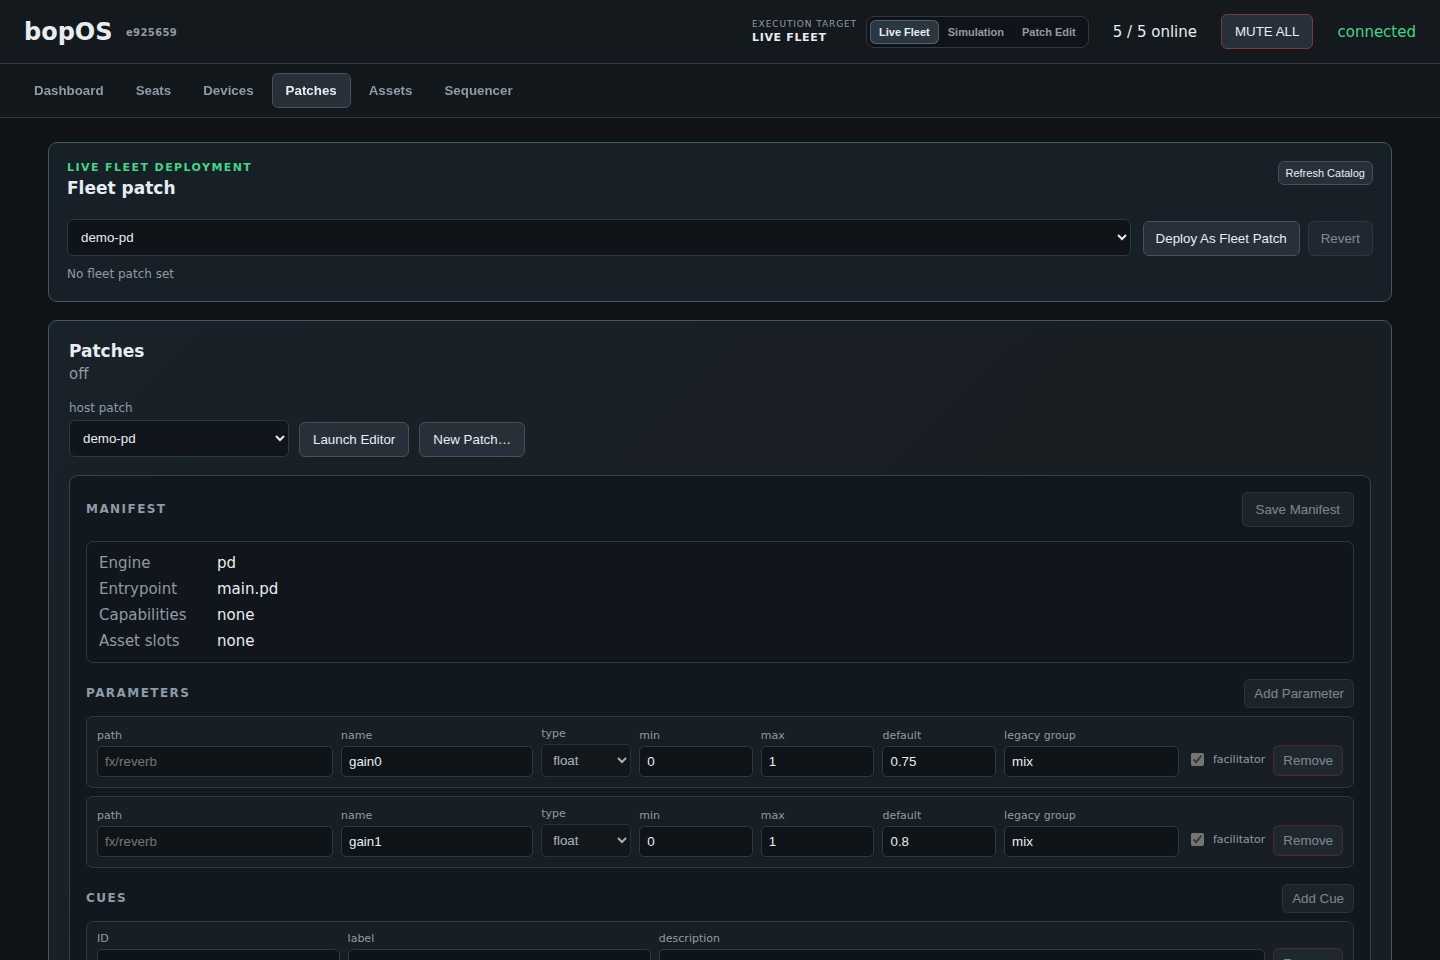
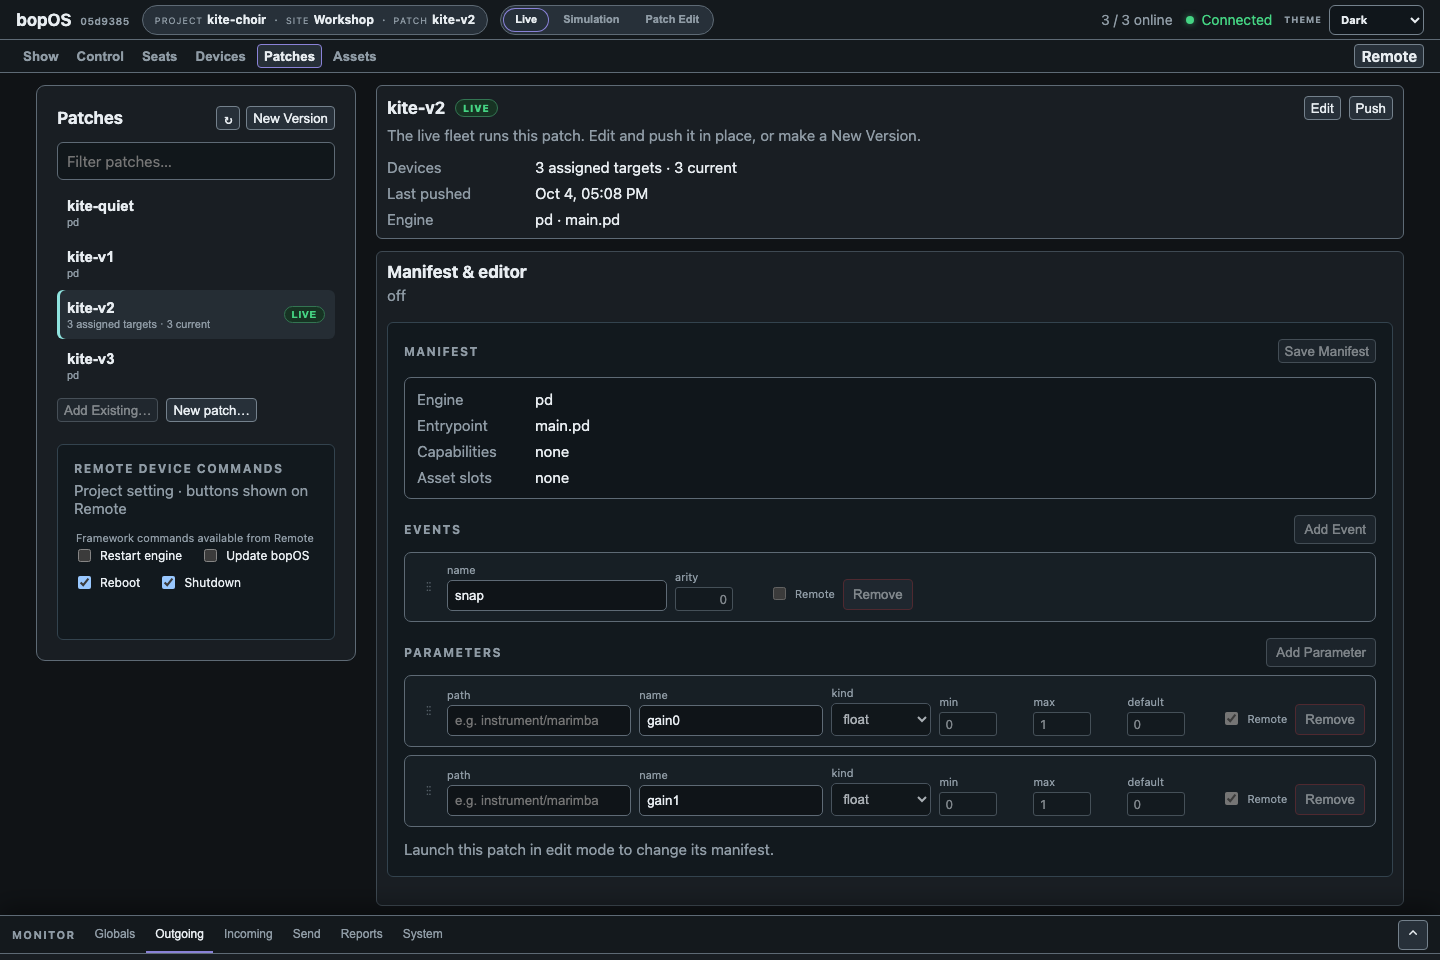
Keep the fleet on the project's patches; Remote commands save on click
Lead review of 66/6. Set Live now refuses a patch the project doesn't list
(proposal sec 3: add a folder to the project first), so the journeys start
from Add Existing instead of seeding the list. Remote device commands follow
mockup 1: captioned "Project setting · buttons shown on Remote" and saved as
each box is ticked, with no Save button. docs/images/tab-patches.png shows
the new tab, dark at 1440x960 like the other docs images.

diff --git a/dashboard/static/css/style.css b/dashboard/static/css/style.css
@@ -28,7 +28,7 @@ button:disabled{opacity:.5;cursor:not-allowed}
 #refresh-distribution{font-size:11px;padding:5px 7px}.patch-target-note{margin-top:12px}
 .patch-badge{flex:none;display:inline-block;max-width:112px;padding:3px 6px;border:1px solid #56616a;border-radius:999px;color:var(--dim);font-size:10px;font-weight:700;line-height:1.2;text-align:center;white-space:normal}.patch-badge-current{border-color:#337552;color:var(--green);background:#173323}.patch-badge-switching{border-color:#9c722b;color:#ffd17a;background:#382a13}.patch-badge-failed,.patch-badge-timeout,.patch-badge-missing,.patch-badge-mismatch,.patch-badge-stale,.patch-badge-stale_unverified{border-color:#9b3c46;color:#ff9da6;background:#3c171b}.device-row.patch-exception{box-shadow:inset 3px 0 0 var(--amber);background:var(--warning-bg)}.device-row.patch-exception:hover,.device-row.patch-exception.selected{background:var(--warning-bg-hover)}.patch-table-wrap{overflow-x:auto}.patch-table{width:100%;border-collapse:collapse;font-size:12px}.patch-table th,.patch-table td{padding:7px 9px;border-bottom:1px solid var(--line);text-align:left;vertical-align:top}.patch-table th{color:var(--dim);font-weight:600}.patch-table code,#patch-diagnostics dd code{font-size:11px;overflow-wrap:anywhere}.patch-remediation{margin-top:12px}
 #editor-panel{border-color:var(--group-line);background:var(--panel)}#editor-panel h2{margin:0 0 4px}.mode-actions{display:flex;align-items:center;gap:8px;flex-wrap:wrap}#editor-session-actions{justify-content:flex-end}#editor-engine-note{margin:9px 0 14px}#editor-params{max-width:760px;margin:12px 0;padding:var(--pad-panel);overflow-x:auto;border:1px solid var(--group-line);border-radius:var(--radius-panel);background:var(--panel)}#editor-params:empty{display:none}.editor-master-row{display:grid;grid-template-columns:minmax(0,1fr) 58px;align-items:center;gap:var(--gap);margin-bottom:var(--gap);padding-bottom:var(--gap);border-bottom:1px solid var(--group-line);color:var(--dim);font-size:12px}.editor-master-row input{grid-column:1/-1;width:100%;margin:0}.editor-master-row output{justify-self:end;font-variant-numeric:tabular-nums}@media(max-width:760px){#editor-panel .section-head{align-items:flex-start;flex-direction:column}#editor-session-actions{justify-content:flex-start}}
-#remote-command-editor{margin:18px 0;padding:16px;background:var(--subpanel);border-color:var(--subpanel-line)}#remote-command-editor .section-head h3,#remote-command-editor .section-head p{margin:0}#remote-command-editor .section-head p{margin-top:5px}#remote-command-options{display:flex;align-items:center;gap:8px 18px;flex-wrap:wrap;margin:14px 0 10px;padding:0;border:0}#remote-command-options legend{width:100%;margin-bottom:2px;color:var(--dim);font-size:11px}#remote-command-options label{display:flex;align-items:center;gap:6px;color:var(--text);font-size:12px}#remote-command-feedback{display:block;min-height:1.4em;line-height:1.4}@media(max-width:760px){#remote-command-editor .section-head{align-items:stretch;flex-direction:column}#remote-command-save{width:100%}}
+#remote-command-editor{margin:18px 0;padding:16px;background:var(--subpanel);border-color:var(--subpanel-line)}#remote-command-editor .section-head h3,#remote-command-editor .section-head p{margin:0}#remote-command-editor .section-head p{margin-top:5px}#remote-command-options{display:flex;align-items:center;gap:8px 18px;flex-wrap:wrap;margin:14px 0 10px;padding:0;border:0}#remote-command-options legend{width:100%;margin-bottom:2px;color:var(--dim);font-size:11px}#remote-command-options label{display:flex;align-items:center;gap:6px;color:var(--text);font-size:12px}#remote-command-feedback{display:block;min-height:1.4em;line-height:1.4}@media(max-width:760px){#remote-command-editor .section-head{align-items:stretch;flex-direction:column}}
 #manifest-editor{margin:18px 0;padding:16px;background:var(--subpanel);border-color:var(--subpanel-line)}#manifest-editor[hidden]{display:none}#manifest-editor .section-head h3,#manifest-editor .section-head p{margin:0}#manifest-editor .section-head p{margin-top:5px}#manifest-readonly{margin:14px 0;padding:12px;border:1px solid var(--line);border-radius:7px;background:var(--input)}#manifest-readonly dl{grid-template-columns:110px 1fr}.manifest-subhead{display:flex;align-items:center;justify-content:space-between;gap:12px;margin-top:16px}.manifest-subhead h3{margin:0}.manifest-subhead button{padding:6px 9px}/* Rows wrap rather than sitting on a fixed column count: a param row's child
    count changes with its kind and an event row's with its arity, so any fixed
    grid either overflows or leaves holes. Fields are sized by what they hold —

diff --git a/dashboard/static/js/dashboard.js b/dashboard/static/js/dashboard.js
@@ -28,8 +28,6 @@ let manifestFeedback = "";
 let manifestDrag = null;
 const REMOTE_COMMANDS = ["restart-engine", "updatebopos", "reboot", "shutdown"];
 let remoteCommandDraft = null;
-let remoteCommandBaseline = null;
-let remoteCommandDirty = false;
 let remoteCommandSaving = false;
 let remoteCommandFeedback = "";
 let pendingCreatedPatch = null;
@@ -930,19 +928,16 @@ function canonicalRemoteCommands(value) {
 function sameRemoteCommands(left,right) {
   return JSON.stringify(left)===JSON.stringify(right);
 }
+// Remote device commands save on click (mockup 1): each change sends the
+// whole selection; the checkboxes follow the project state again once it
+// reflects the last selection sent.
 function renderRemoteCommandEditor() {
   const current=canonicalRemoteCommands(installation.facilitator_commands);
-  if (remoteCommandDraft===null
-      || (!remoteCommandDirty && !sameRemoteCommands(current,remoteCommandBaseline))) {
-    remoteCommandDraft=[...current];
-    remoteCommandBaseline=[...current];
-  }
   if (remoteCommandSaving && sameRemoteCommands(current,remoteCommandDraft)) {
     remoteCommandSaving=false;
-    remoteCommandDirty=false;
-    remoteCommandBaseline=[...current];
     remoteCommandFeedback="Saved project setting.";
   }
+  if (!remoteCommandSaving) remoteCommandDraft=[...current];
   document.querySelectorAll("[data-remote-command]").forEach(input=>{
     input.checked=remoteCommandDraft.includes(input.dataset.remoteCommand);
     input.onchange=()=>{
@@ -950,19 +945,12 @@ function renderRemoteCommandEditor() {
         const option=document.querySelector(`[data-remote-command="${command}"]`);
         return option?.checked;
       });
-      remoteCommandDirty=!sameRemoteCommands(remoteCommandDraft,remoteCommandBaseline);
-      remoteCommandFeedback=remoteCommandDirty?"Unsaved project setting.":"";
+      remoteCommandSaving=true;
+      remoteCommandFeedback="Saving project setting…";
+      ws.send("set_facilitator_commands",{commands:[...remoteCommandDraft]});
       renderRemoteCommandEditor();
     };
   });
-  const save=$("#remote-command-save");
-  save.disabled=!remoteCommandDirty || remoteCommandSaving;
-  save.onclick=()=>{
-    remoteCommandSaving=true;
-    remoteCommandFeedback="Saving project setting…";
-    ws.send("set_facilitator_commands",{commands:[...remoteCommandDraft]});
-    renderRemoteCommandEditor();
-  };
   $("#remote-command-feedback").textContent=remoteCommandFeedback;
 }
 

diff --git a/dashboard/static/index.html b/dashboard/static/index.html
@@ -114,7 +114,7 @@
         <div id="patch-list" class="patch-list"></div>
         <div class="patch-list-actions"><button id="patch-add-existing">Add Existing…</button><button id="editor-new-patch">New patch…</button></div>
         <section id="remote-command-editor" aria-labelledby="remote-command-title">
-          <div class="section-head"><div><h3 id="remote-command-title">Remote device commands</h3><p class="dim">Project setting · not saved in the patch and not deployed to devices.</p></div><button id="remote-command-save">Save project setting</button></div>
+          <div class="section-head"><div><h3 id="remote-command-title">Remote device commands</h3><p class="dim">Project setting · buttons shown on Remote</p></div></div>
           <fieldset id="remote-command-options">
             <legend>Framework commands available from Remote</legend>
             <label><input type="checkbox" data-remote-command="restart-engine"> Restart engine</label>

diff --git a/tests/verify_fleet_patch_deploy.py b/tests/verify_fleet_patch_deploy.py
@@ -88,8 +88,19 @@ def write_patch(root, name, payload):
                    "caps": [], "slots": []}, target)
 
 
+def add_existing(page, name):
+    """Add Existing: list a catalog folder in the project (66-projects/6)."""
+    page.click("#patch-add-existing")
+    page.wait_for_selector("#patch-add-dialog[open]")
+    page.select_option("#patch-add-select", name)
+    page.click("#patch-add-confirm")
+    page.wait_for_selector(f'#patch-list [data-patch="{name}"]')
+
+
 def deploy_fleet(page, name):
-    """Select one of the project's patches and Set Live it (Patches tab)."""
+    """Add the patch to the project, select it and Set Live it (Patches tab)."""
+    if page.locator(f'#patch-list [data-patch="{name}"]').count() == 0:
+        add_existing(page, name)
     page.click(f'#patch-list [data-patch="{name}"]')
     page.wait_for_function(
         "name => document.querySelector('#patch-detail h2')?.textContent.startsWith(name)",
@@ -107,8 +118,8 @@ def main():
         write_patch(patches, "demo-pd", b"demo")
         write_patch(patches, "alpha", b"alpha-bytes")
         write_patch(patches, "beta", b"beta-bytes")
-        state = {"schema": 1, "name": "Fleet patch deployment rig",
-                 "patches": ["alpha", "beta", "demo-pd"], "seats": {
+        # A new project: no Patch and no patches until Add Existing.
+        state = {"schema": 1, "name": "Fleet patch deployment rig", "seats": {
             "1": {"id": 1, "name": "Finn", "positions": [[1, 1]],
                   "params": {}, "bound": UID_A},
             "2": {"id": 2, "name": "Ciro", "positions": [[2, 1]],
@@ -164,7 +175,13 @@ def main():
 
                 page.click("#tab-button-patches")
                 page.wait_for_selector(
-                    '#tab-patches:not([hidden]) #patch-list [data-patch="beta"]')
+                    "#tab-patches:not([hidden]) #patch-add-existing:not([disabled])")
+                check("a new project lists no patches",
+                      page.locator("#patch-list .patch-item").count() == 0)
+                page.evaluate("ws.send('set_fleet_patch', {patch: 'alpha', confirmed: true})")
+                time.sleep(.5)
+                check("Set Live refuses a patch outside the project",
+                      page.evaluate("() => installation.fleet_patch") is None)
 
                 # --- deploy alpha to the whole fleet: both converge ---
                 deploy_fleet(page, "alpha")

diff --git a/tests/verify_device_control_panel.py b/tests/verify_device_control_panel.py
@@ -158,7 +158,7 @@ def main():
         write_patch(patches, "alpha", ALPHA_PARAMS)
         write_patch(patches, "beta", BETA_PARAMS)
         state = {
-            "schema": 1, "name": "Device control rig", "patches": ["alpha", "beta"],
+            "schema": 1, "name": "Device control rig",
             "fleet_patch": {"name": "alpha", "fingerprint": "a" * 64,
                             "staged_at": time.time()},
             "seats": {
@@ -412,7 +412,12 @@ def main():
                 # --- device controls follow a fleet patch change ---
                 page.click("#tab-button-patches")
                 page.wait_for_selector(
-                    '#tab-patches:not([hidden]) #patch-list [data-patch="beta"]')
+                    "#tab-patches:not([hidden]) #patch-add-existing:not([disabled])")
+                page.click("#patch-add-existing")
+                page.wait_for_selector("#patch-add-dialog[open]")
+                page.select_option("#patch-add-select", "beta")
+                page.click("#patch-add-confirm")
+                page.wait_for_selector('#patch-list [data-patch="beta"]')
                 page.click('#patch-list [data-patch="beta"]')
                 page.wait_for_function(
                     "() => document.querySelector('#patch-deploy')?.innerText === 'Set Live'")

diff --git a/dashboard/server.py b/dashboard/server.py
@@ -663,7 +663,13 @@ class Dashboard:
             if data.get("confirmed") is not True:
                 await self.ws_error(ws, "Setting the fleet patch requires confirmation.")
                 return
-            await self.stage_and_converge(str(data.get("patch", "")).strip(), ws)
+            name = str(data.get("patch", "")).strip()
+            # The fleet runs one of the project's patches (66-projects
+            # proposal sec 3): add a folder to the project first.
+            if name not in self.state.project_patches():
+                await self.ws_error(ws, f"Cannot set fleet patch {name!r}: add it to the project first.")
+                return
+            await self.stage_and_converge(name, ws)
         elif kind == "retry_fleet_patch":
             await self.retry_fleet_patch(uid, ws)
         elif kind == "request_patches":

diff --git a/tests/verify_patches_tab.py b/tests/verify_patches_tab.py
@@ -247,6 +247,13 @@ def main():
                 if shot:
                     page.screenshot(path=shot)
 
+                # --- Set Live outside the project is refused (proposal sec 3) ---
+                page.evaluate("ws.send('set_fleet_patch', {patch: 'kite-sketch', confirmed: true})")
+                time.sleep(.5)
+                check("Set Live refuses a patch outside the project",
+                      page.evaluate("() => installation.fleet_patch?.name") == "kite-v3"
+                      and "kite-sketch" not in page.evaluate("() => installation.patches"))
+
                 # --- Add Existing: a catalog folder joins the project ---
                 page.click("#patch-add-existing")
                 page.wait_for_selector("#patch-add-dialog[open]")

diff --git a/tests/verify_manifest_param_visibility.py b/tests/verify_manifest_param_visibility.py
@@ -283,7 +283,8 @@ def main():
                     '[data-remote-command="reboot"]').check()
                 remote_editor.locator(
                     '[data-remote-command="shutdown"]').check()
-                remote_editor.locator("#remote-command-save").click()
+                check("Remote commands save on click, with no Save button",
+                      remote_editor.locator("button").count() == 0)
                 page.wait_for_function(
                     "() => (installation.facilitator_commands||[]).join(',')"
                     " === 'restart-engine,reboot,shutdown'")
